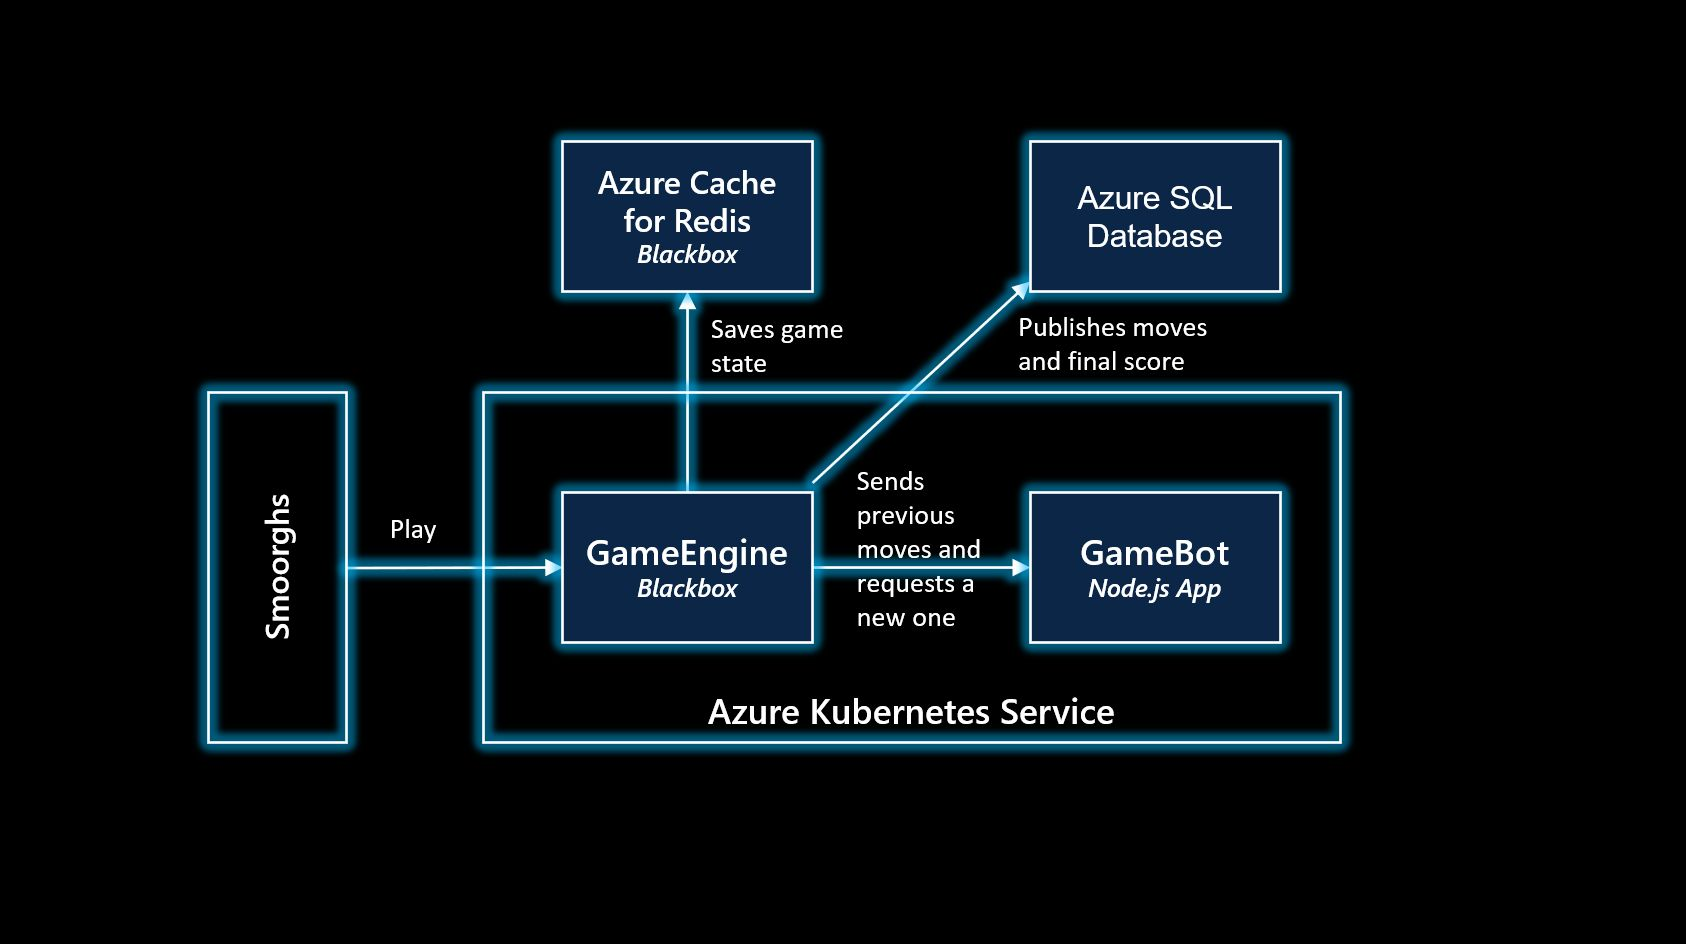
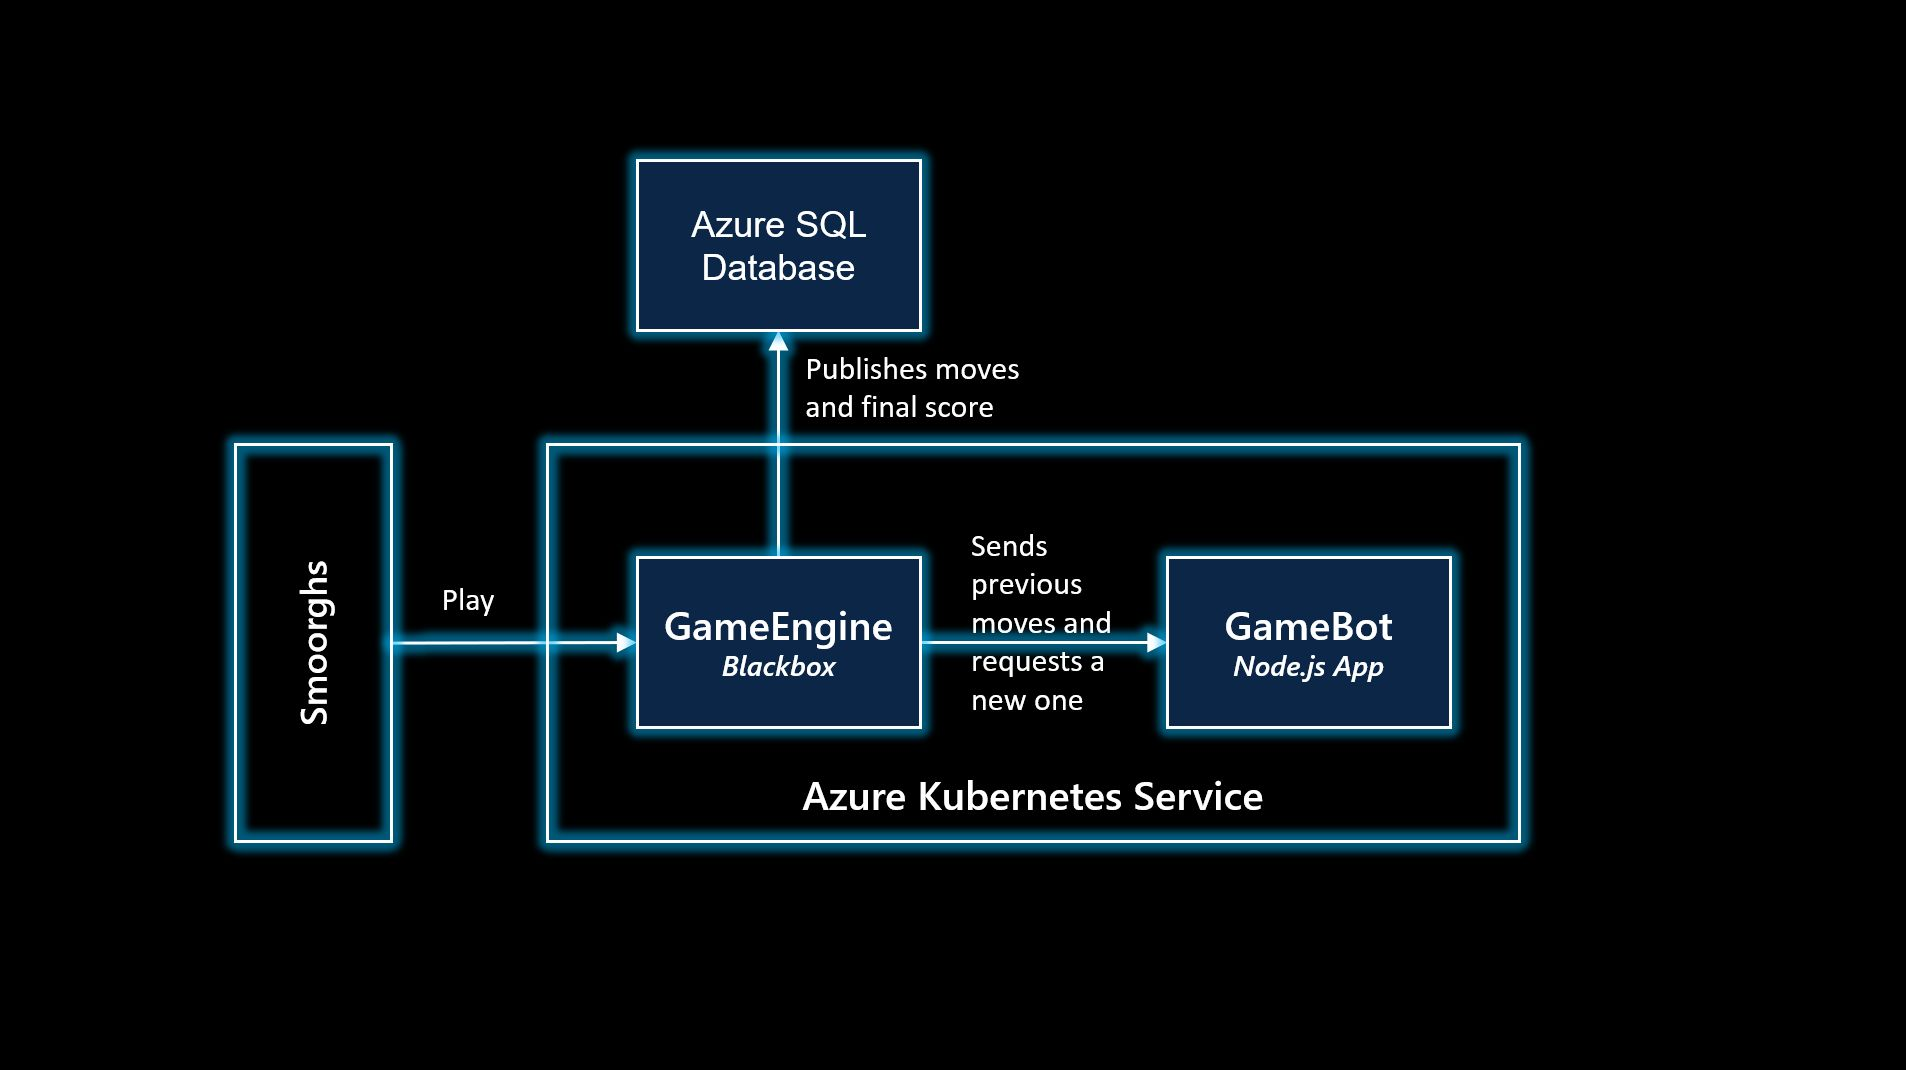
Remove Redis | move to SQL DB as cache

diff --git a/AdventureDayBackend/portal-frontend/src/components/phases/4-Scale.vue b/AdventureDayBackend/portal-frontend/src/components/phases/4-Scale.vue
@@ -15,6 +15,11 @@
     <ul>
       <li>
         <a
+          href="https://docs.microsoft.com/en-us/azure/azure-sql/database/serverless-tier-overview"
+        >Azure SQL Database serverless tier and autoscaling</a>
+      </li>
+      <li>
+        <a
           href="https://docs.microsoft.com/en-us/azure/aks/concepts-scale"
         >Scaling options for applications in Azure Kubernetes Service (AKS)</a>
       </li>
@@ -22,11 +27,6 @@
         <a
           href="https://docs.microsoft.com/en-us/azure/aks/tutorial-kubernetes-scale#autoscale-pods"
         >Scale applications in Azure Kubernetes Service (AKS)</a>
-      </li>
-      <li>
-        <a
-          href="https://docs.microsoft.com/en-us/azure/azure-sql/database/serverless-tier-overview"
-        >Azure SQL Database serverless tier and autoscaling</a>
       </li>
     </ul>
   </div>

diff --git a/AdventureDayBackend/portal-frontend/src/components/phases/3-Monitoring.vue b/AdventureDayBackend/portal-frontend/src/components/phases/3-Monitoring.vue
@@ -28,11 +28,6 @@
           href="https://docs.microsoft.com/en-us/azure/azure-sql/database/single-database-scale"
         >Azure SQL Database Scaling</a>
       </li>
-      <li>
-        <a
-          href="https://docs.microsoft.com/en-us/azure/azure-cache-for-redis/cache-how-to-scale"
-        >How to Scale Azure Cache for Redis</a>
-      </li>
     </ul>
   </div>
 </template>

diff --git a/TeamGameHub/GameEngine/WebApi/Startup.cs b/TeamGameHub/GameEngine/WebApi/Startup.cs
@@ -31,9 +31,13 @@ namespace AzureGameDay.Web
             services.AddDbContext<MatchDBContext>(opt =>
                opt.UseSqlServer(Configuration.GetConnectionString("GameEngineDB")));
 
-            services.AddDistributedRedisCache(opt =>
-                opt.Configuration = Configuration.GetConnectionString("GameEngineRedis")
-            );
+            services.AddDistributedSqlServerCache(opt =>
+            {
+                opt.ConnectionString = Configuration.GetConnectionString("GameEngineDB");
+                opt.SchemaName = "dbo";
+                opt.TableName = "MatchCache";
+            });
+
             services.AddOpenApiDocument(s =>
             {
                 s.Title = "Azure Adventure Day - API";

diff --git a/TeamGameHub/GameEngine/Readme.md b/TeamGameHub/GameEngine/Readme.md
@@ -17,7 +17,6 @@ GET 20.50.244.160:81/exploit HTTP/1.1
 
 
 ## Prepare
-1. Create a redis cache.
 1. Create a AzureSQL DB
 1. Run the DatabaseScripts in the AzureSQL Db found in /DatabaseScripts
 
@@ -26,7 +25,6 @@ Set these env vars:
 
 * ```ARCADE_BACKENDURL```: your backend service url, e.g. http://51.124.129.82/pick. Could also be http://mybackend/pick if inside a K8s cluster.
 * ```ConnectionStrings__GameEngineDB```: connectionstring to your Azure SQL DB
-* ```ConnectionStrings__GameEngineRedis```: connectionstring to your Redis
 
 ## How to play
 Call this service via HTTP-POST to e.g. https://localhost:58937/Match/.
@@ -49,7 +47,7 @@ For subsequent calls provide the matchId found in the response.
 ## How it works
 1. The challenger calls the game engine with the first turn. 
 1. The game engine creates a "match" and queries the backend service for it's turn.
-1. The game engine saves the state of this "match" to redis.
+1. The game engine saves the state of this "match" encrypted to SQL Database.
 1. The game engine returns the outcome of this move to the challenger.
 1. The challenger can make the second move and so on.
 1. After the match, all moves will be store in the DB including results.

diff --git a/README.md b/README.md
@@ -55,7 +55,7 @@ Jede Challenge wird unabhängig von einander bewertet
 #### 4. Phase: Scaling
 * Narrative: A bunch of tweets are hitting up right after going online again - alle your fans in the world are trying to access the side again. 
 * Tech: Scale pod and node count automatically
-* Tech: Scale SQL Database | or Redis before SQL Database
+* Tech: Scale SQL Database
 * Tech: Backend fährt hoch und runter die Requests pro Sekunde
 Background: Limit Sessions per Pod (based on memory)
 

diff --git a/scoring.md b/scoring.md
@@ -67,7 +67,6 @@
 ### Azure costs
 * look into AKS node pool SKU and node count
 * look into Azure SQL Database SKU
-* look into Redis Cache SKU
 
 ## Phase 4: Scale
 * RandomPlayer see above
